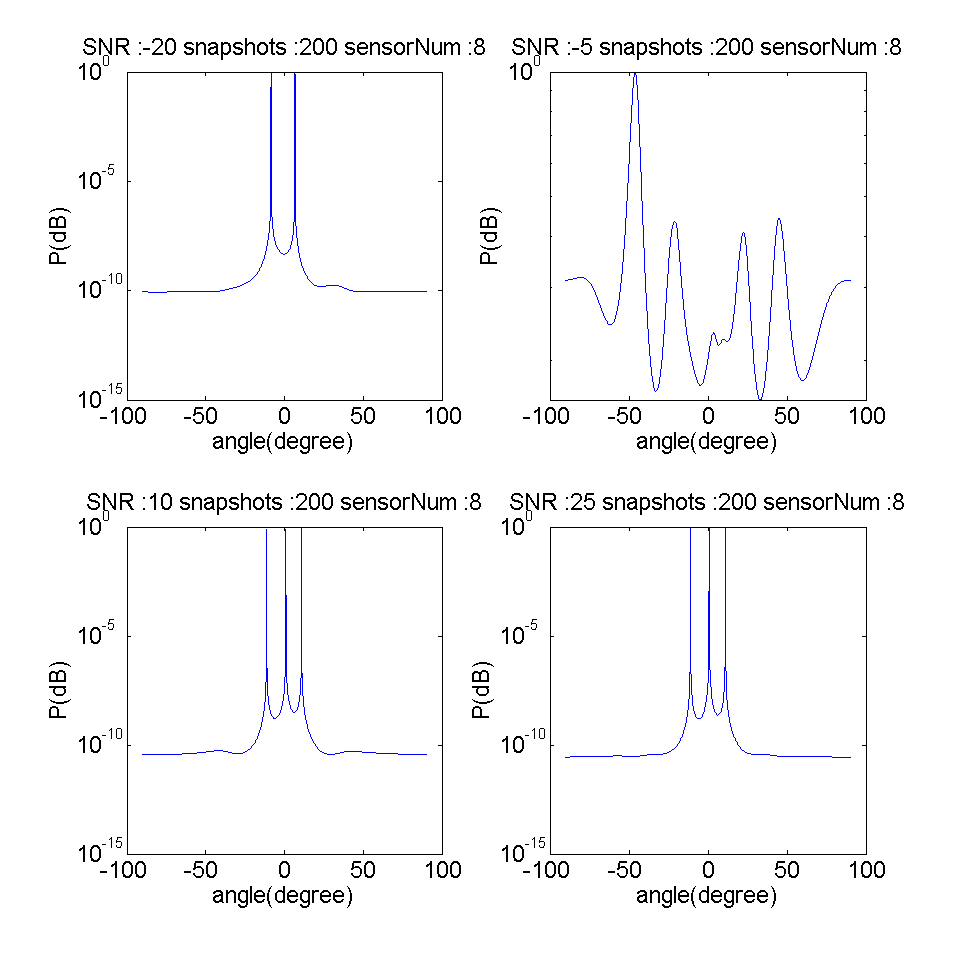
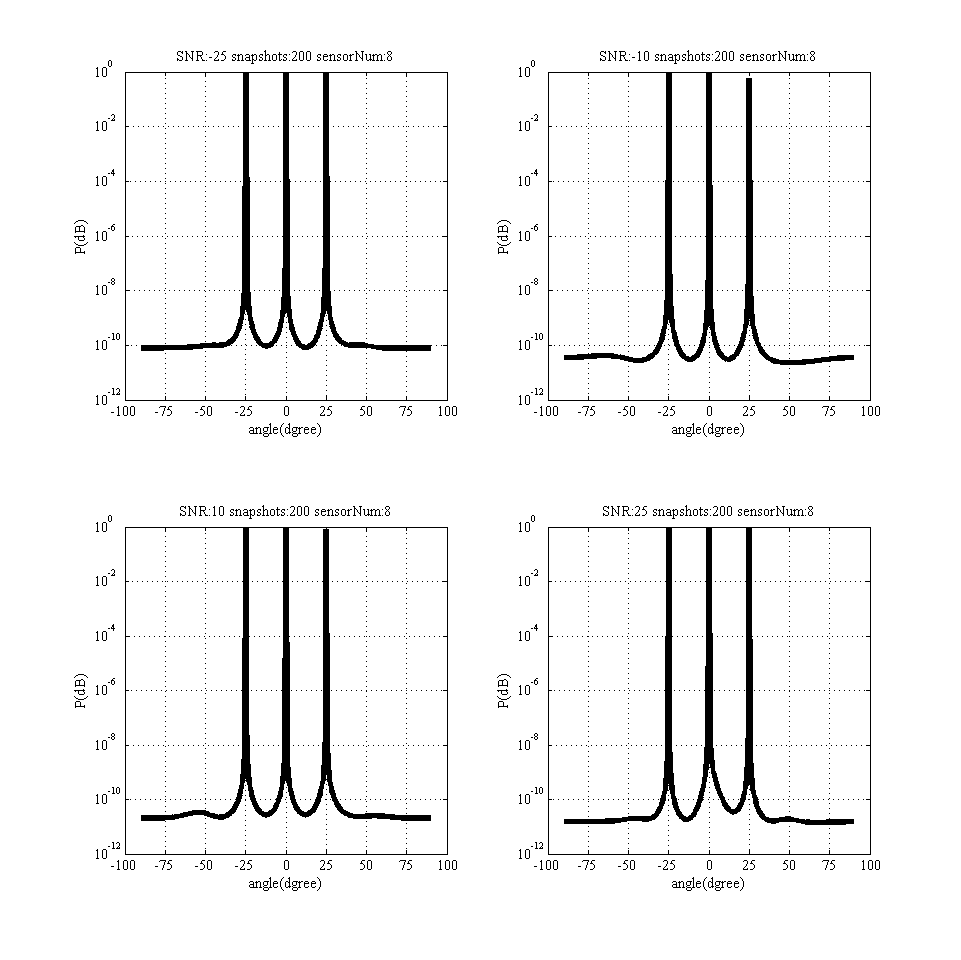
finnal

diff --git a/matlab/demo.m b/matlab/demo.m
@@ -1,10 +1,53 @@
-tic
-[theta, P] = l1_svd(25, 200, 8);
-% [theta, P] = SpatialSmoothing_MUSIC(25, 300, 8);
-semilogy(theta, abs(P)/max(abs(P)))
+SNR = 25;
+snapshots = 200;
+sensorNum = 5;
+[theta, P] = l1_svd(SNR, snapshots, sensorNum);
+subplot(2, 2, 1)
+semilogy(theta, abs(P)/max(abs(P)), 'k-', 'LineWidth', 4.0)
+set(gca,'XTick',[-100: 25: 100])
+set(gca, 'FontName', 'Times New Roman', 'FontSize', 10.5)
 grid on
-[peakVals, locs] = findpeaks(abs(P));
-[~, peakIdx] = sort(peakVals, 'descend');
-peakIdx = locs(peakIdx(1: 3));
-theta_hat = theta(peakIdx)
-toc
+xlabel('angle(dgree)')
+ylabel('P(dB)')
+title(strcat('SNR: ', num2str(SNR), ' snapshots: ', num2str(snapshots), ' sensorNum: ', num2str(sensorNum)))
+
+SNR = 25;
+snapshots = 200;
+sensorNum = 8;
+[theta, P] = l1_svd(SNR, snapshots, sensorNum);
+subplot(2, 2, 2)
+semilogy(theta, abs(P)/max(abs(P)), 'k-', 'LineWidth', 4.0)
+set(gca,'XTick',[-100: 25: 100])
+set(gca, 'FontName', 'Times New Roman', 'FontSize', 10.5)
+grid on
+xlabel('angle(dgree)')
+ylabel('P(dB)')
+title(strcat('SNR: ', num2str(SNR), ' snapshots: ', num2str(snapshots), ' sensorNum: ', num2str(sensorNum)))
+
+SNR = 25;
+snapshots = 200;
+sensorNum = 16;
+[theta, P] = l1_svd(SNR, snapshots, sensorNum);
+subplot(2, 2, 3)
+semilogy(theta, abs(P)/max(abs(P)), 'k-', 'LineWidth', 4.0)
+set(gca,'XTick',[-100: 25: 100])
+set(gca, 'FontName', 'Times New Roman', 'FontSize', 10.5)
+grid on
+xlabel('angle(dgree)')
+ylabel('P(dB)')
+title(strcat('SNR: ', num2str(SNR), ' snapshots: ', num2str(snapshots), ' sensorNum: ', num2str(sensorNum)))
+
+SNR = 25;
+snapshots = 200;
+sensorNum = 24;
+[theta, P] = l1_svd(SNR, snapshots, sensorNum);
+subplot(2, 2, 4)
+semilogy(theta, abs(P)/max(abs(P)), 'k-', 'LineWidth', 4.0)
+set(gca,'XTick',[-100: 25: 100])
+set(gca, 'FontName', 'Times New Roman', 'FontSize', 10.5)
+grid on
+xlabel('angle(dgree)')
+ylabel('P(dB)')
+title(strcat('SNR: ', num2str(SNR), ' snapshots: ', num2str(snapshots), ' sensorNum: ', num2str(sensorNum)))
+
+set(gcf, 'unit', 'inches', 'position', [0.5, 0.5, 10, 10])

diff --git a/matlab/l1_svd.m b/matlab/l1_svd.m
@@ -29,7 +29,7 @@ function [theta, S_sv_hat] = l1_svd(SNR, snapshots, sensorNum)
     %----------Consider three sources at -10 degree, 0 degree and 10 degree.----------------------%
     %----------Sources at -10 degree and 0 degree is coherent.------------------------------------%
     %----------Each source is generated from a zerom mean Gaussian distribution.------------------%
-    theta_S = [-20; 0; 20];
+    theta_S = [-25; 0; 25];
     sourceNum = length(theta_S);
     sigma_S = sigma_N * 10^(SNR/10);
     signalCovMat = [sigma_S, 0.99*sigma_S, 0; 0.99*sigma_S, sigma_S, 0; 0, 0, sigma_S];
